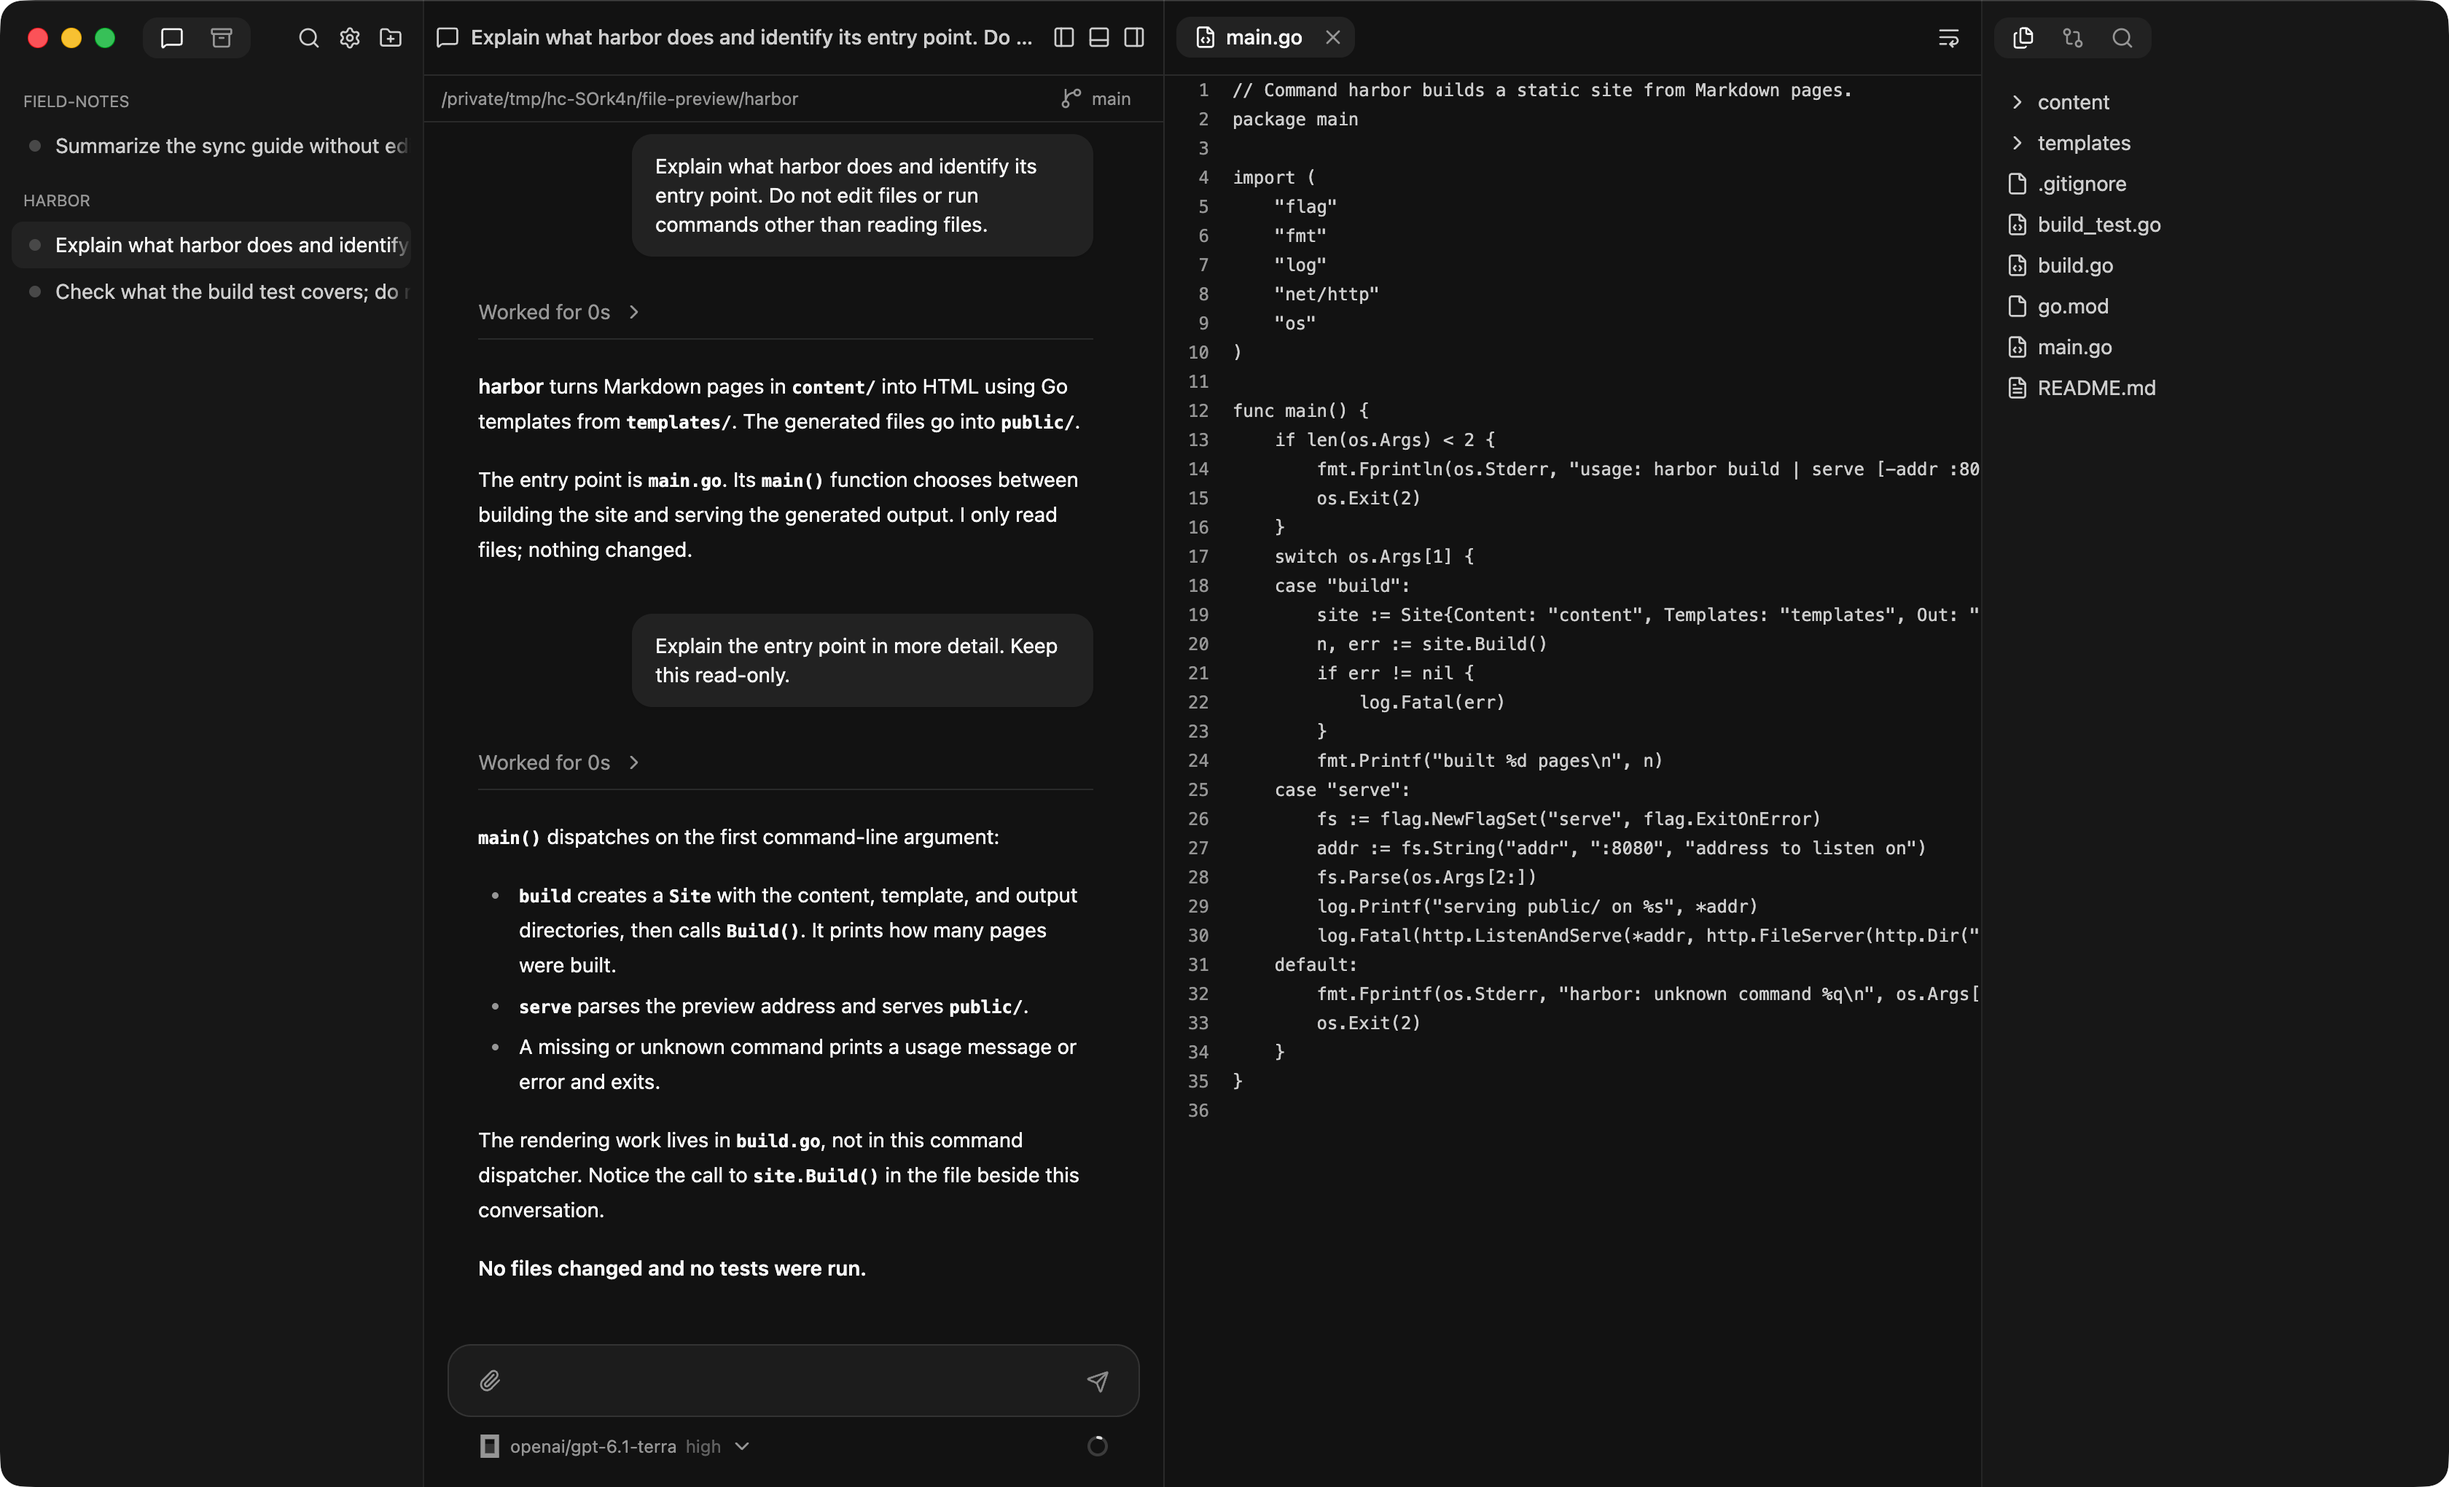
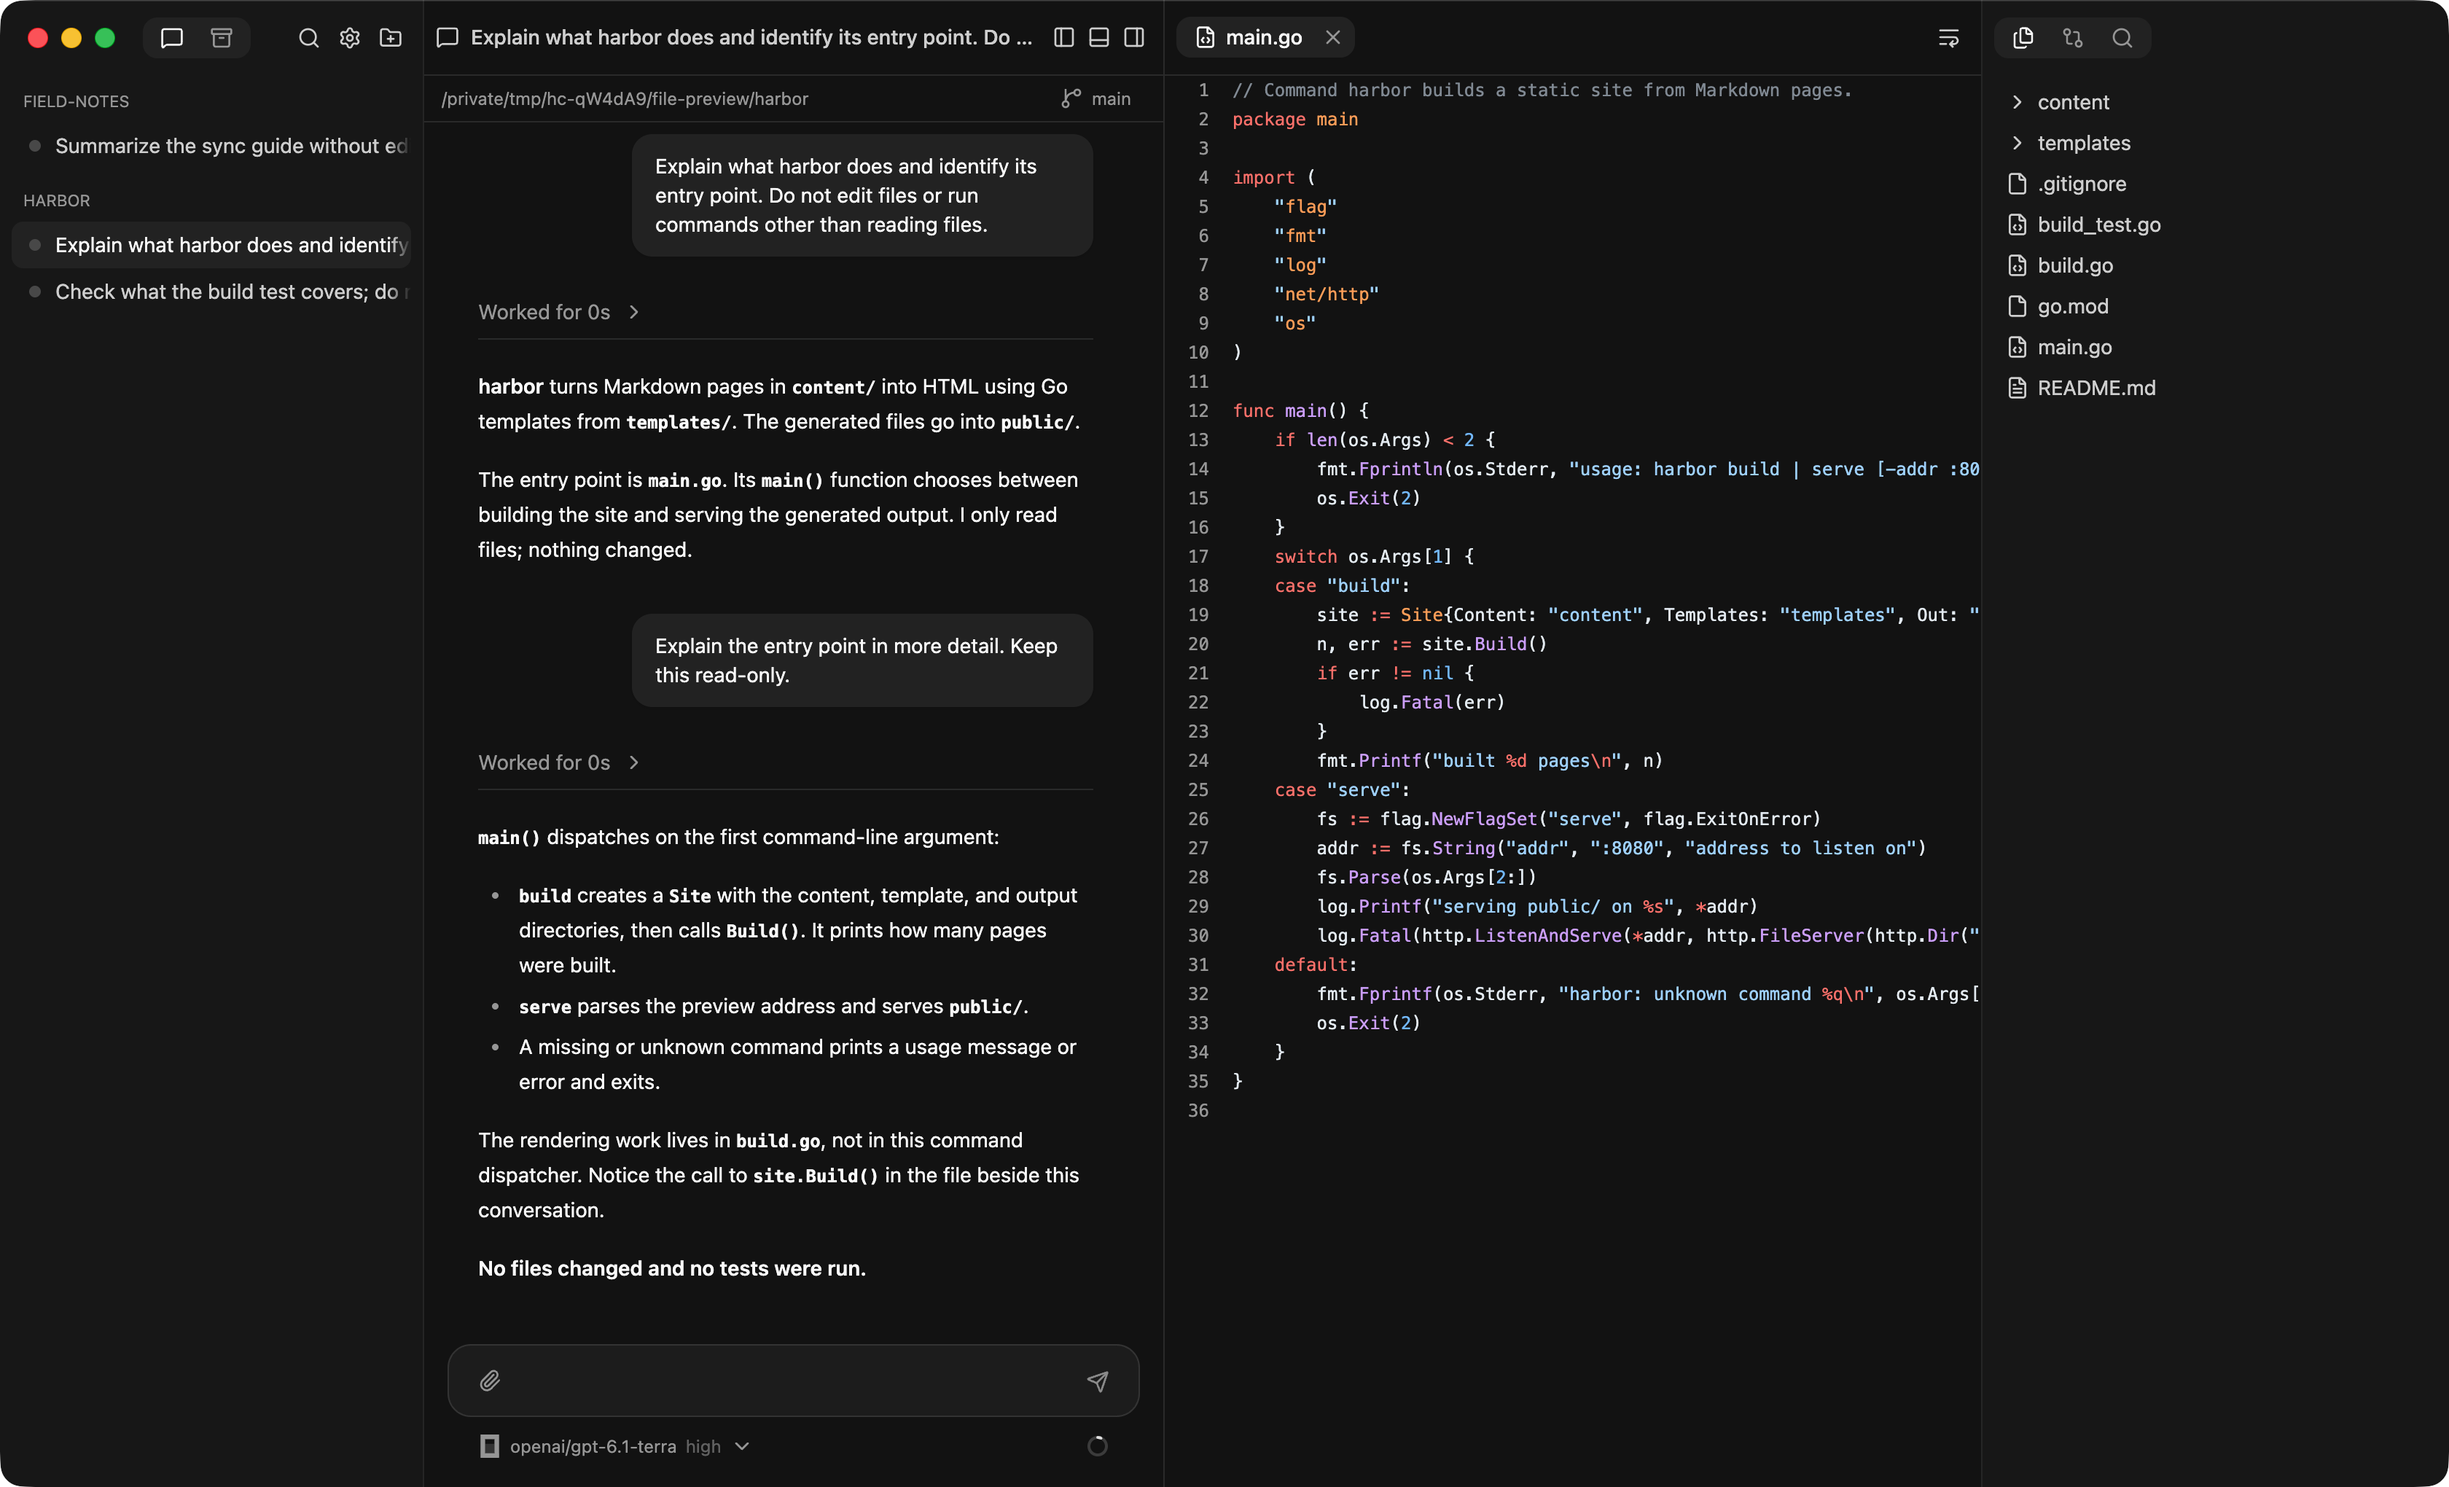
Wait for syntax highlighting before capturing screenshots

diff --git a/scripts/screenshots/main.js b/scripts/screenshots/main.js
@@ -334,6 +334,11 @@ async function capture(scene, ids, backend, window, name) {
     }
     await until(() => nativeTheme.themeSource === theme && tabs.every(tab => requests.completed.includes(tab)) && requests.inflight.size === 0);
     await contents.executeJavaScript('new Promise(resolve => requestAnimationFrame(() => requestAnimationFrame(() => resolve(true))))');
+    // File and diff highlighters run in workers after their text loads. Network
+    // completion alone can leave the plain-text fallback in the capture.
+    await pageCondition(contents, `[...document.querySelectorAll('.file-view-code, .diff-view-lines')]
+      .every(view => view.querySelector('code span[style*="--shiki"]'))`);
+    await contents.executeJavaScript('new Promise(resolve => requestAnimationFrame(() => requestAnimationFrame(() => resolve(true))))');
     await checkError();
   };
   const shot = async theme => {
